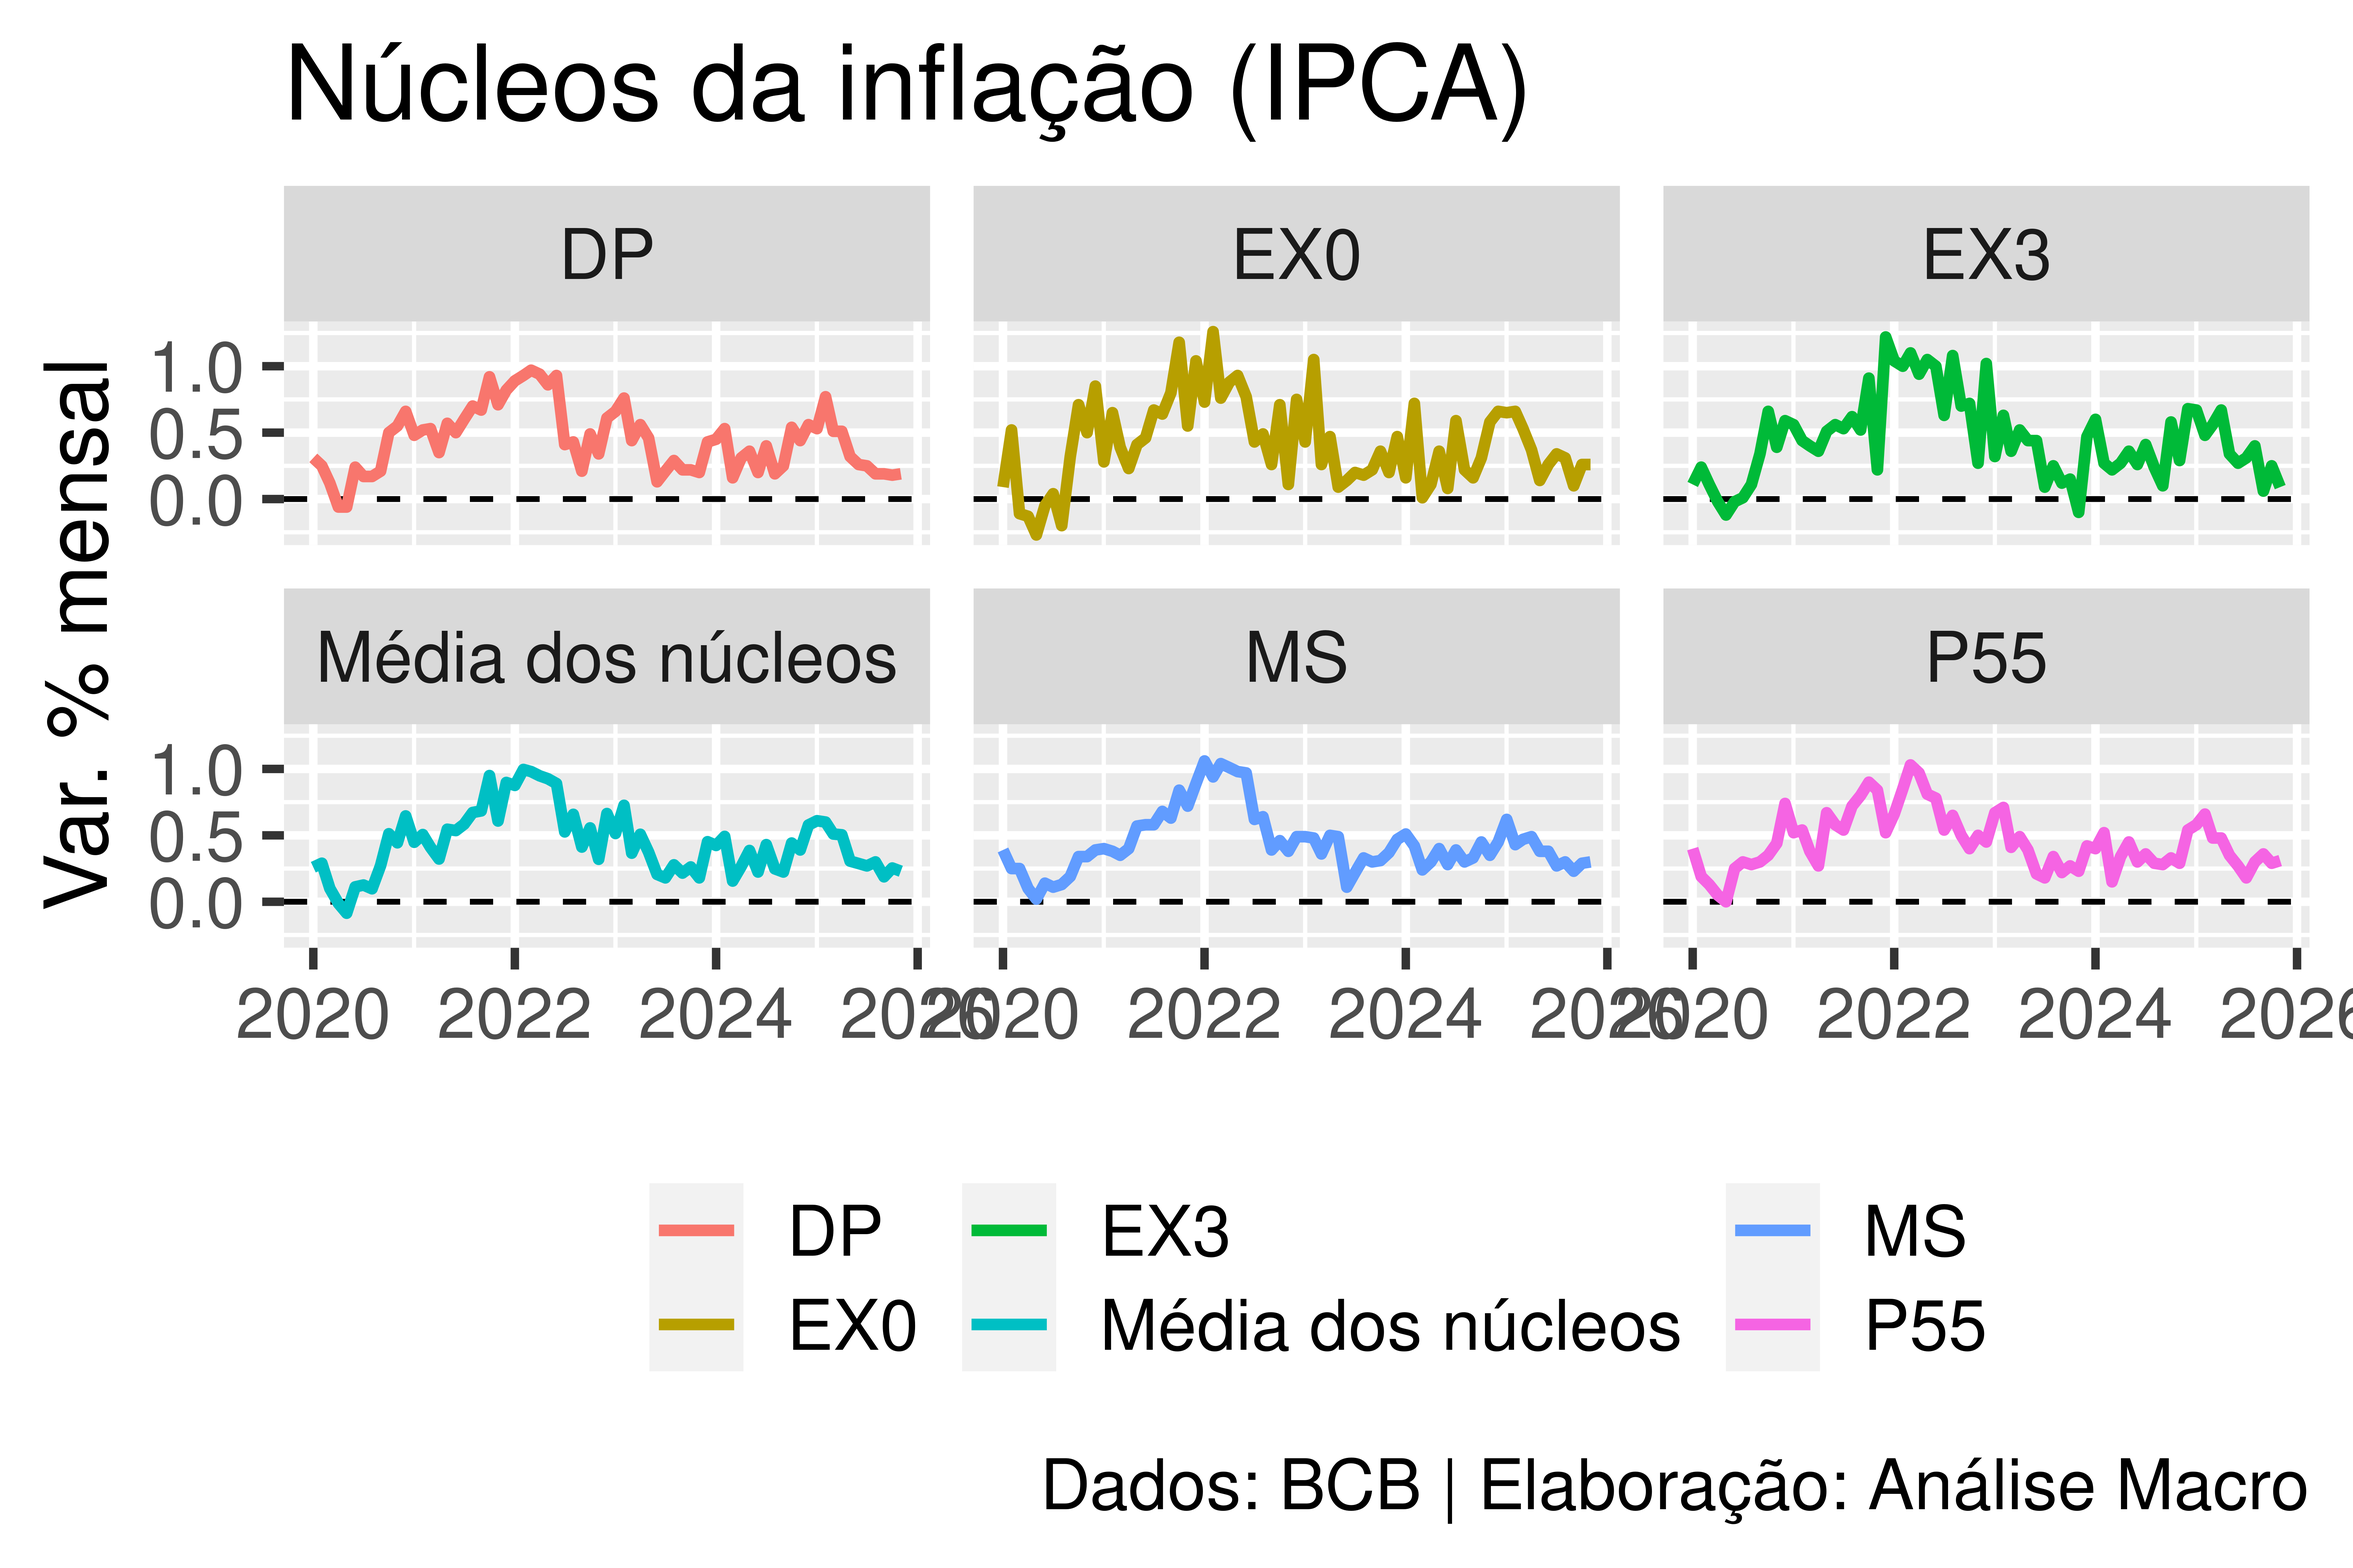
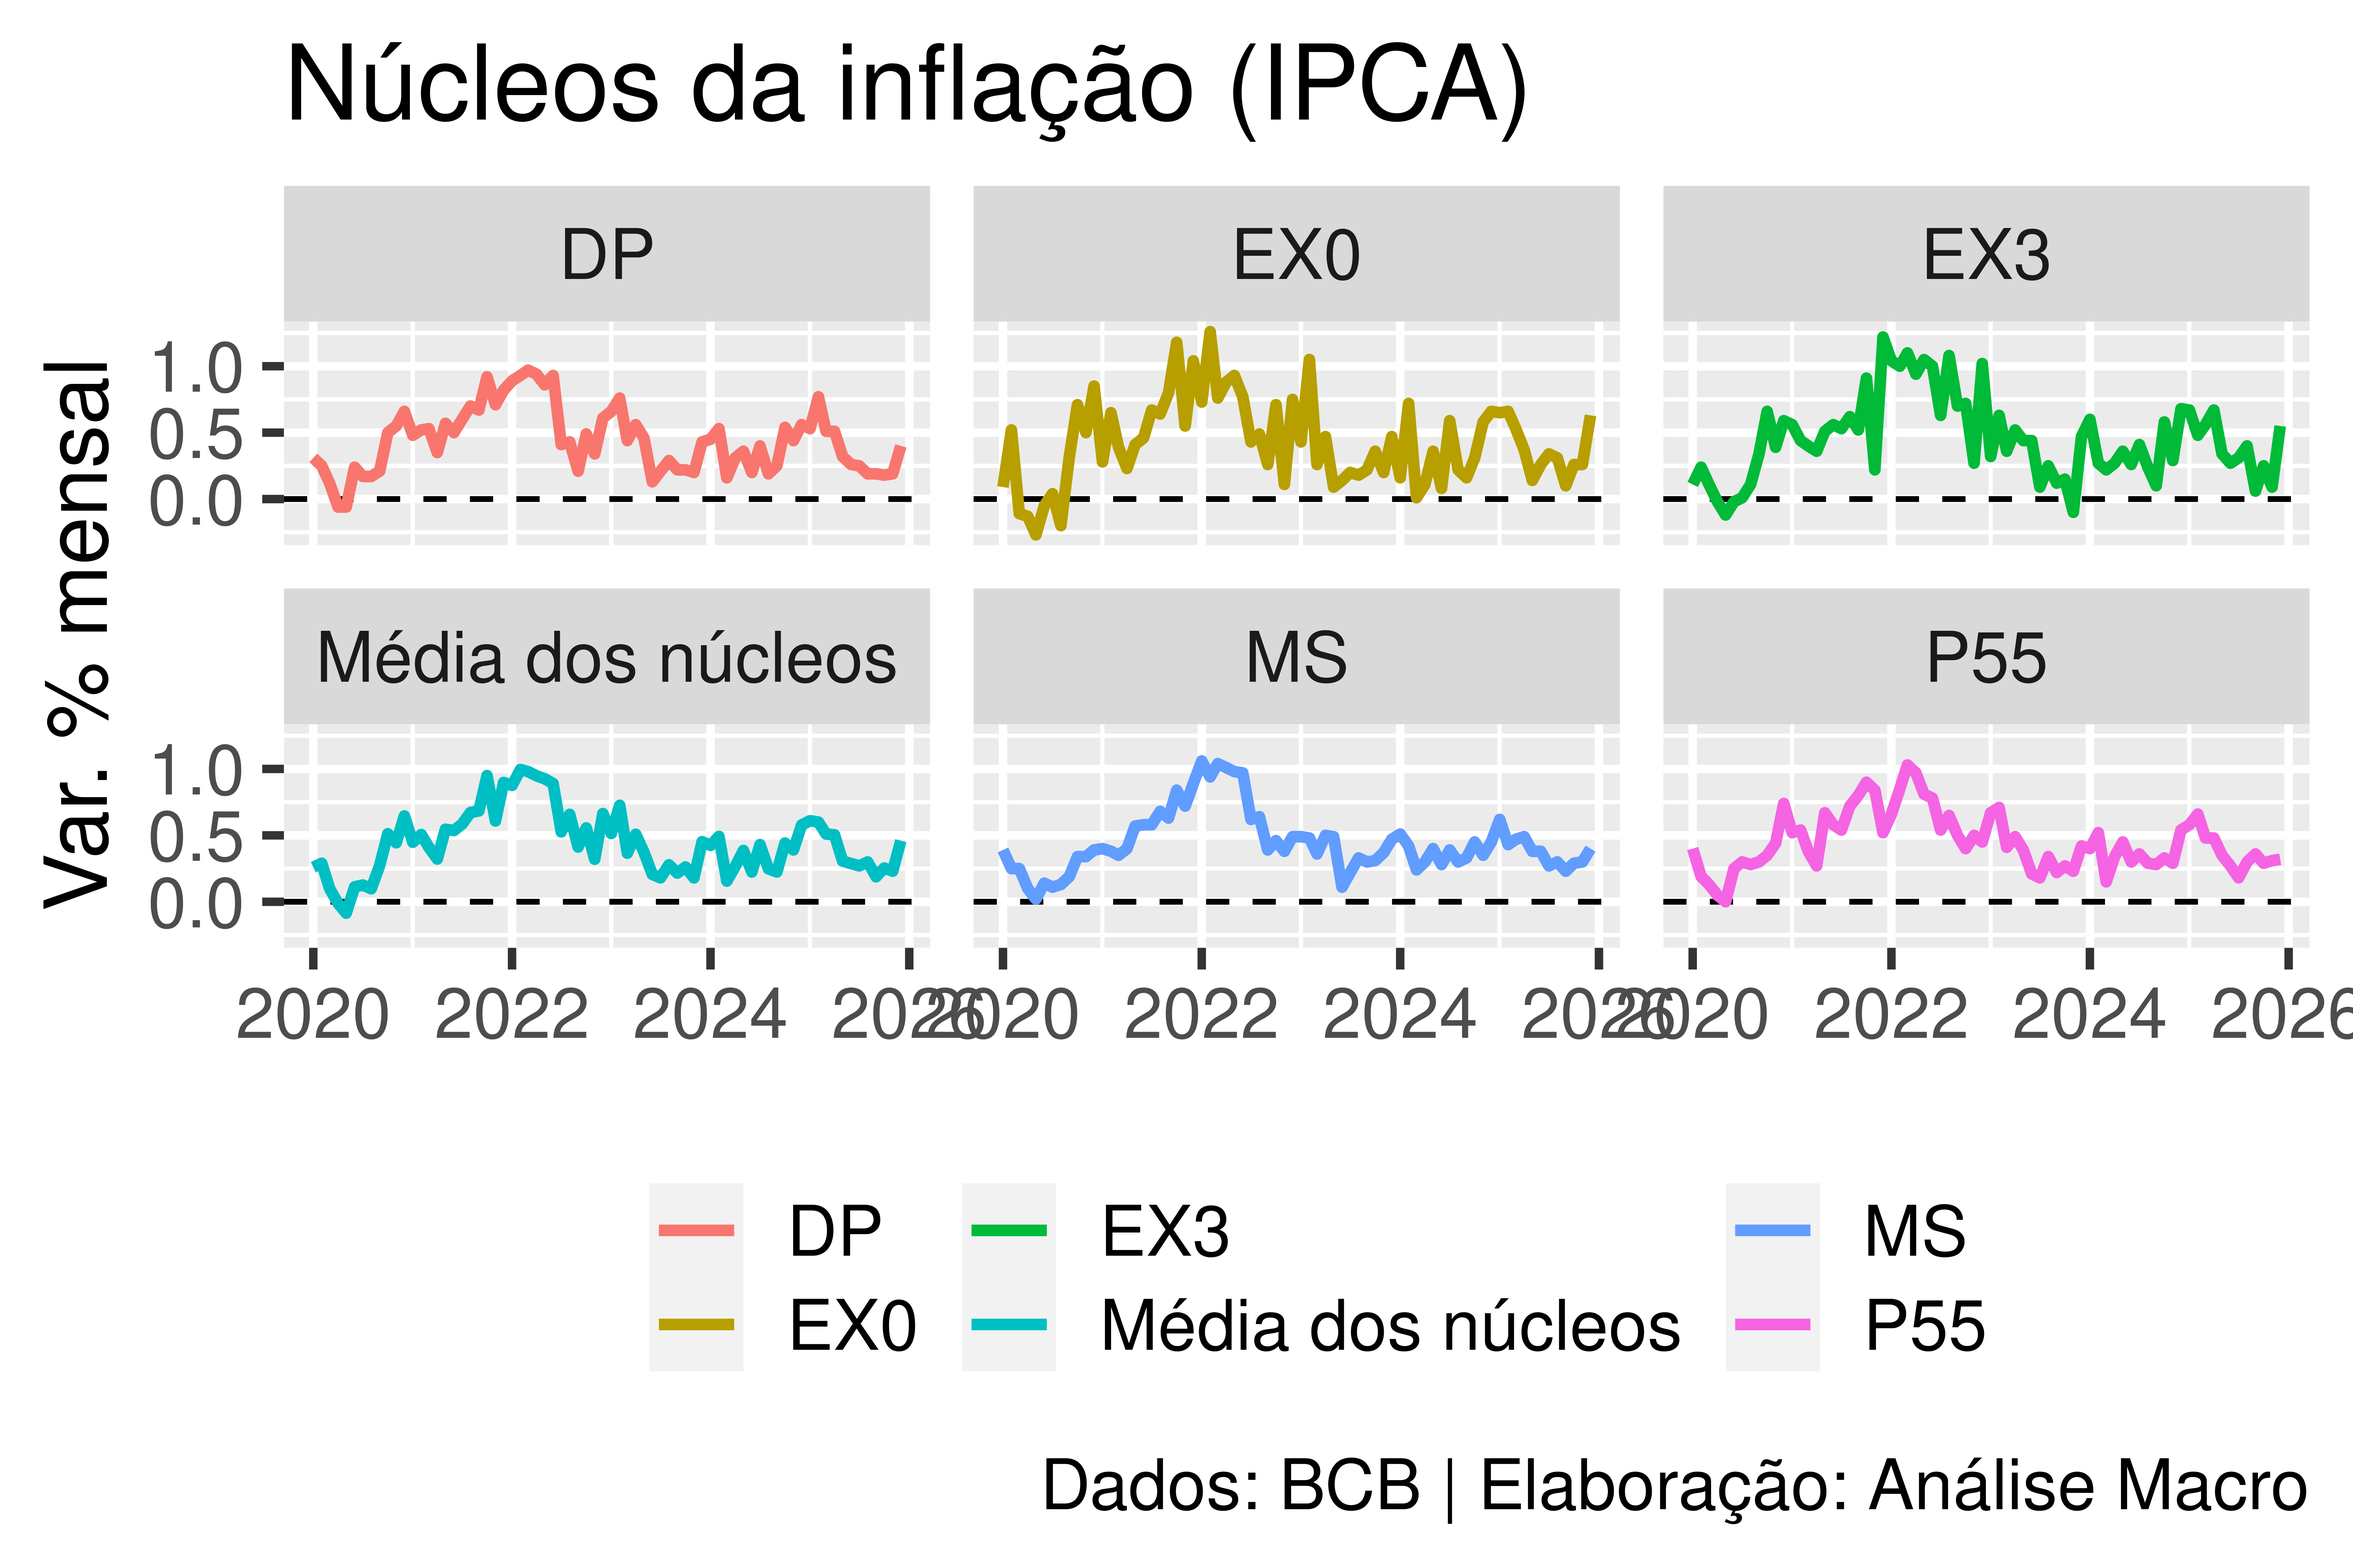
Atualização de relatório automatizada

diff --git a/relatório_ipca/ipca.html b/relatório_ipca/ipca.html
@@ -79,8 +79,8 @@ ul.task-list li input[type="checkbox"] {
 <h2 class="anchored" data-anchor-id="inflação-cheia">Inflação cheia</h2>
 <p>Principais destaques para o Índice nacional de preços ao consumidor-amplo (IPCA):</p>
 <ul>
-<li>O IPCA variou 0,18% no mês de 11/2025 em relação ao mês anterior.</li>
-<li>Em termos anuais, o IPCA acumula 4,46% nos últimos 12 meses.</li>
+<li>O IPCA variou 0,33% no mês de 12/2025 em relação ao mês anterior.</li>
+<li>Em termos anuais, o IPCA acumula 4,26% nos últimos 12 meses.</li>
 <li>Para o ano de 2025 a meta de inflação é de 3,00%. As informações são, quando não explicitamente referenciadas, do IBGE.</li>
 </ul>
 <div class="callout callout-style-default callout-note callout-titled">
